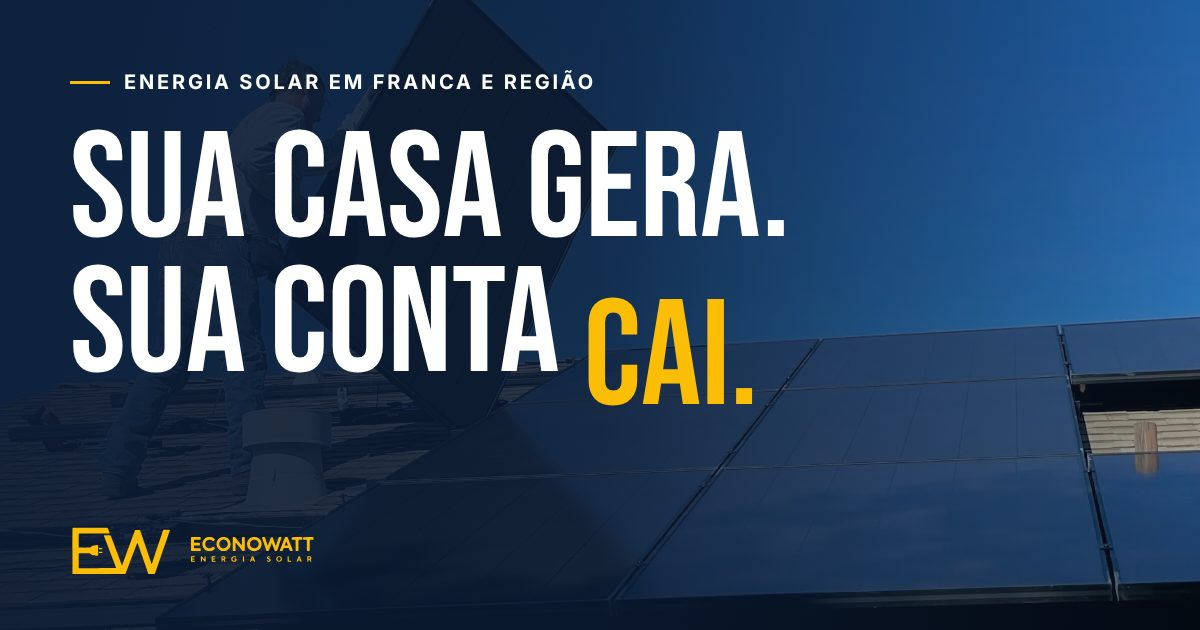
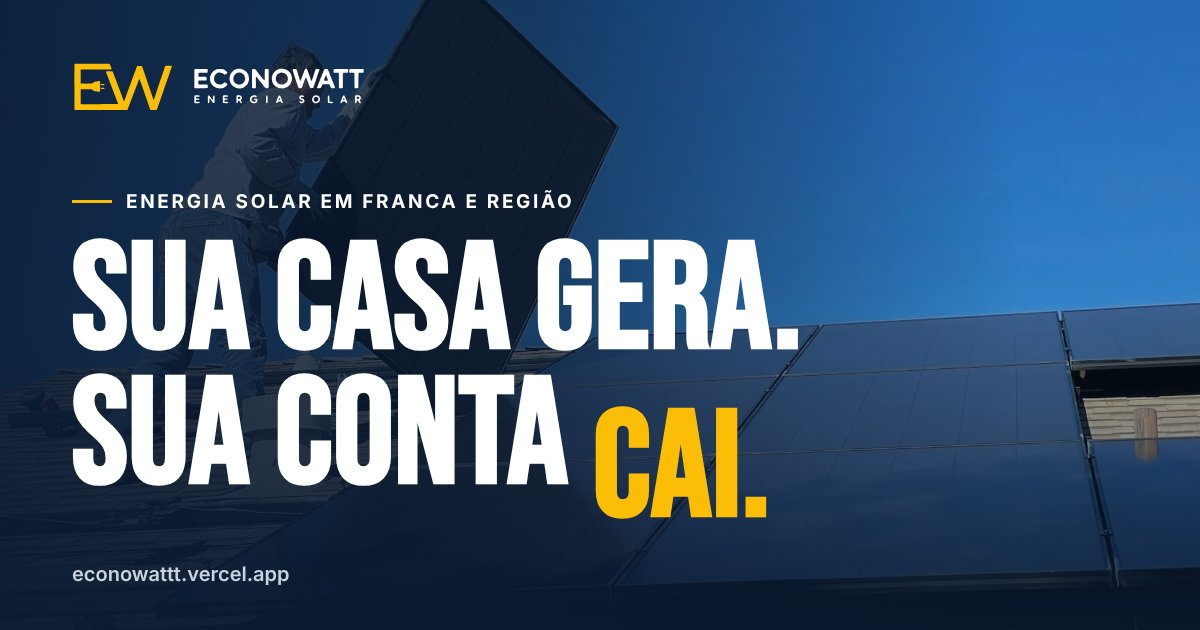
Nova imagem na previa de link e ajustes pós deploy na vercel

diff --git a/index.html b/index.html
@@ -3,9 +3,9 @@
 <head>
   <meta charset="utf-8">
   <meta name="viewport" content="width=device-width, initial-scale=1">
-  <title>Energia solar em Franca e região | EconoWatt</title>
+  <title>EconoWatt | Energia solar em Franca e região</title>
   <meta name="description" content="Placas solares para casa, comércio, indústria e sítio em Franca/SP. Veja quanto sua conta cai e quanto sobra, e receba a proposta no WhatsApp.">
-  <link rel="canonical" href="https://econowatt.vercel.app/">
+  <link rel="canonical" href="https://econowattt.vercel.app/">
   <meta name="theme-color" content="#0B1B33">
 
   <!-- Prévia do link no WhatsApp, Facebook e LinkedIn -->
@@ -14,8 +14,8 @@
   <meta property="og:site_name" content="EconoWatt Energia Solar">
   <meta property="og:title" content="Sua casa gera. Sua conta cai.">
   <meta property="og:description" content="Simule com o valor da sua conta de luz. Energia solar em Franca e região, com parcela só depois que o sistema liga.">
-  <meta property="og:url" content="https://econowatt.vercel.app/">
-  <meta property="og:image" content="https://econowatt.vercel.app/assets/img/og-image.jpg">
+  <meta property="og:url" content="https://econowattt.vercel.app/">
+  <meta property="og:image" content="https://econowattt.vercel.app/assets/img/og-image.jpg">
   <meta property="og:image:width" content="1200">
   <meta property="og:image:height" content="630">
   <meta property="og:image:alt" content="EconoWatt Energia Solar: Sua casa gera. Sua conta cai.">
@@ -37,12 +37,12 @@
   {
     "@context": "https://schema.org",
     "@type": "HomeAndConstructionBusiness",
-    "@id": "https://econowatt.vercel.app/#empresa",
+    "@id": "https://econowattt.vercel.app/#empresa",
     "name": "EconoWatt Energia Solar",
     "description": "Projeto e instalação de energia solar para casas, comércios, indústrias e propriedades rurais em Franca e região.",
-    "url": "https://econowatt.vercel.app/",
-    "logo": "https://econowatt.vercel.app/assets/img/apple-touch-icon.png",
-    "image": "https://econowatt.vercel.app/assets/img/og-image.jpg",
+    "url": "https://econowattt.vercel.app/",
+    "logo": "https://econowattt.vercel.app/assets/img/apple-touch-icon.png",
+    "image": "https://econowattt.vercel.app/assets/img/og-image.jpg",
     "telephone": "+55-16-99181-7146",
     "foundingDate": "2023",
     "address": {

diff --git a/README.md b/README.md
@@ -41,7 +41,7 @@ O código fica em `integracoes/google-apps-script.js`. Depois de publicar o Apps
 
 ## Publicação
 
-Vercel, importando o repositório do GitHub. Depois do deploy, troque `https://econowatt.vercel.app/` pelo endereço final em: `index.html` (canonical, og:url, og:image, JSON-LD), `robots.txt` e `sitemap.xml`.
+No ar em **https://econowattt.vercel.app/** (Vercel, publicado a partir deste repositório a cada envio). Se o endereço mudar (domínio próprio, por exemplo), troque-o em: `index.html` (canonical, og:url, og:image, JSON-LD), `robots.txt` e `sitemap.xml`.
 
 ## Qualidade (metas)
 
